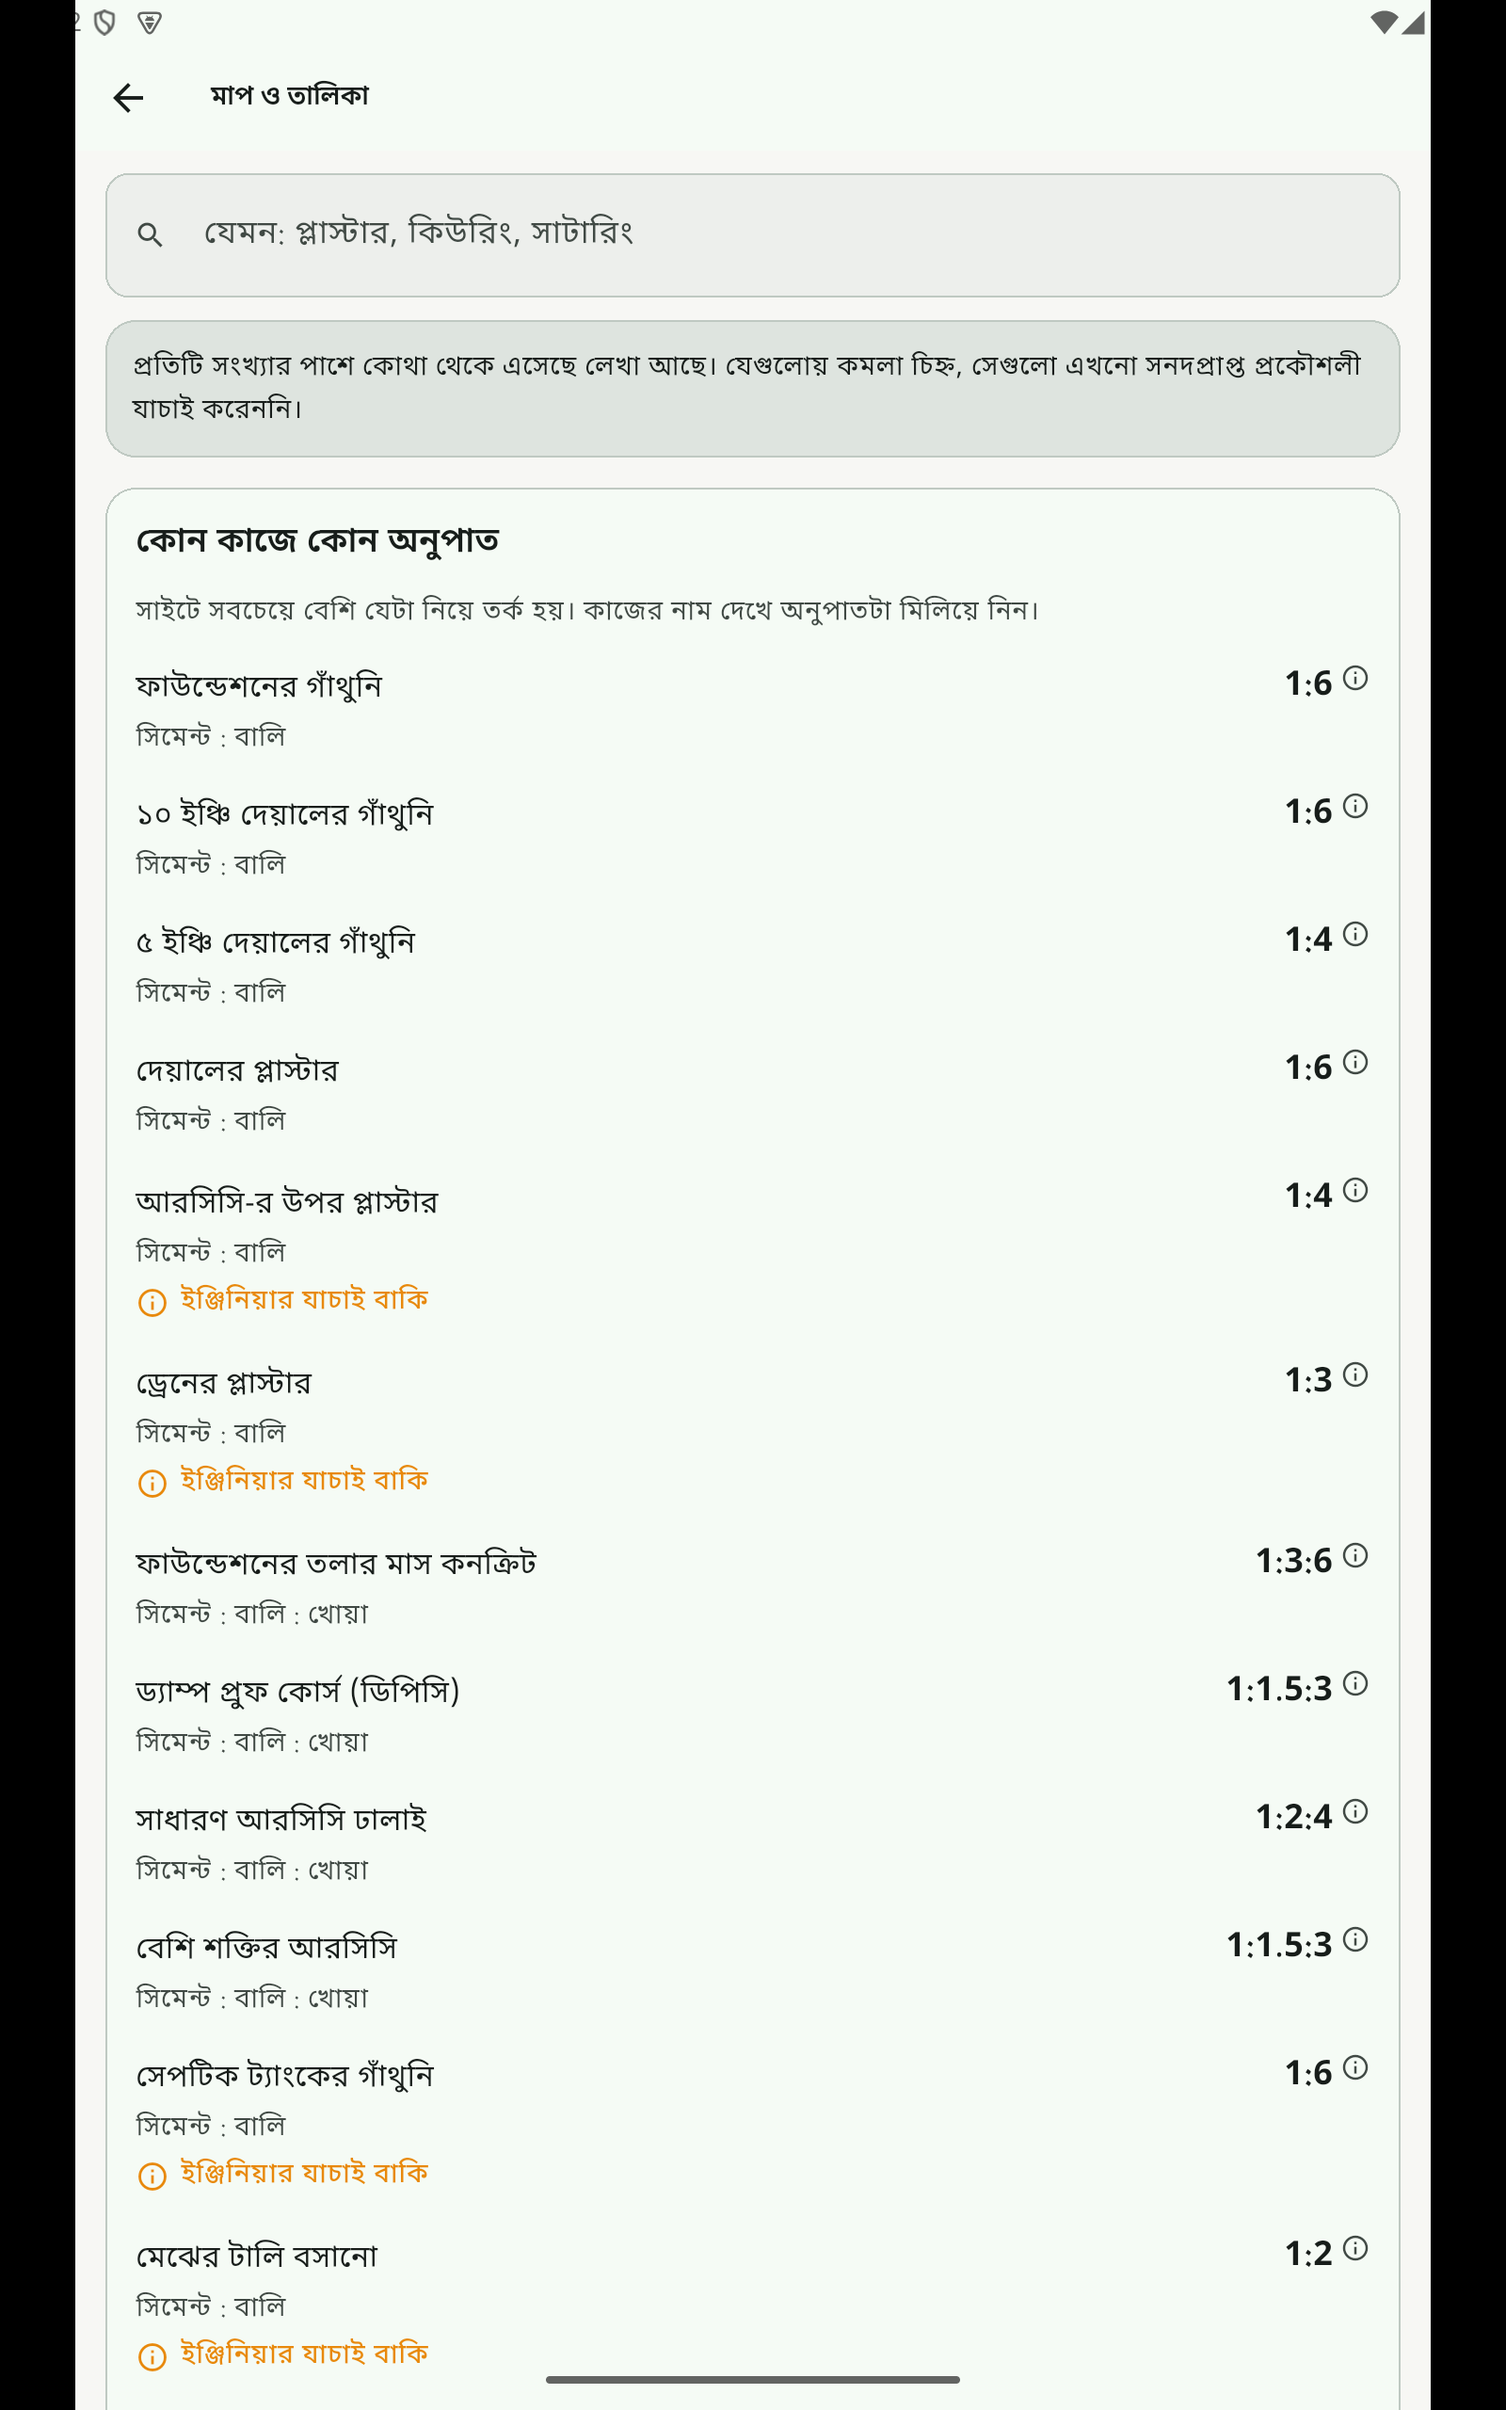
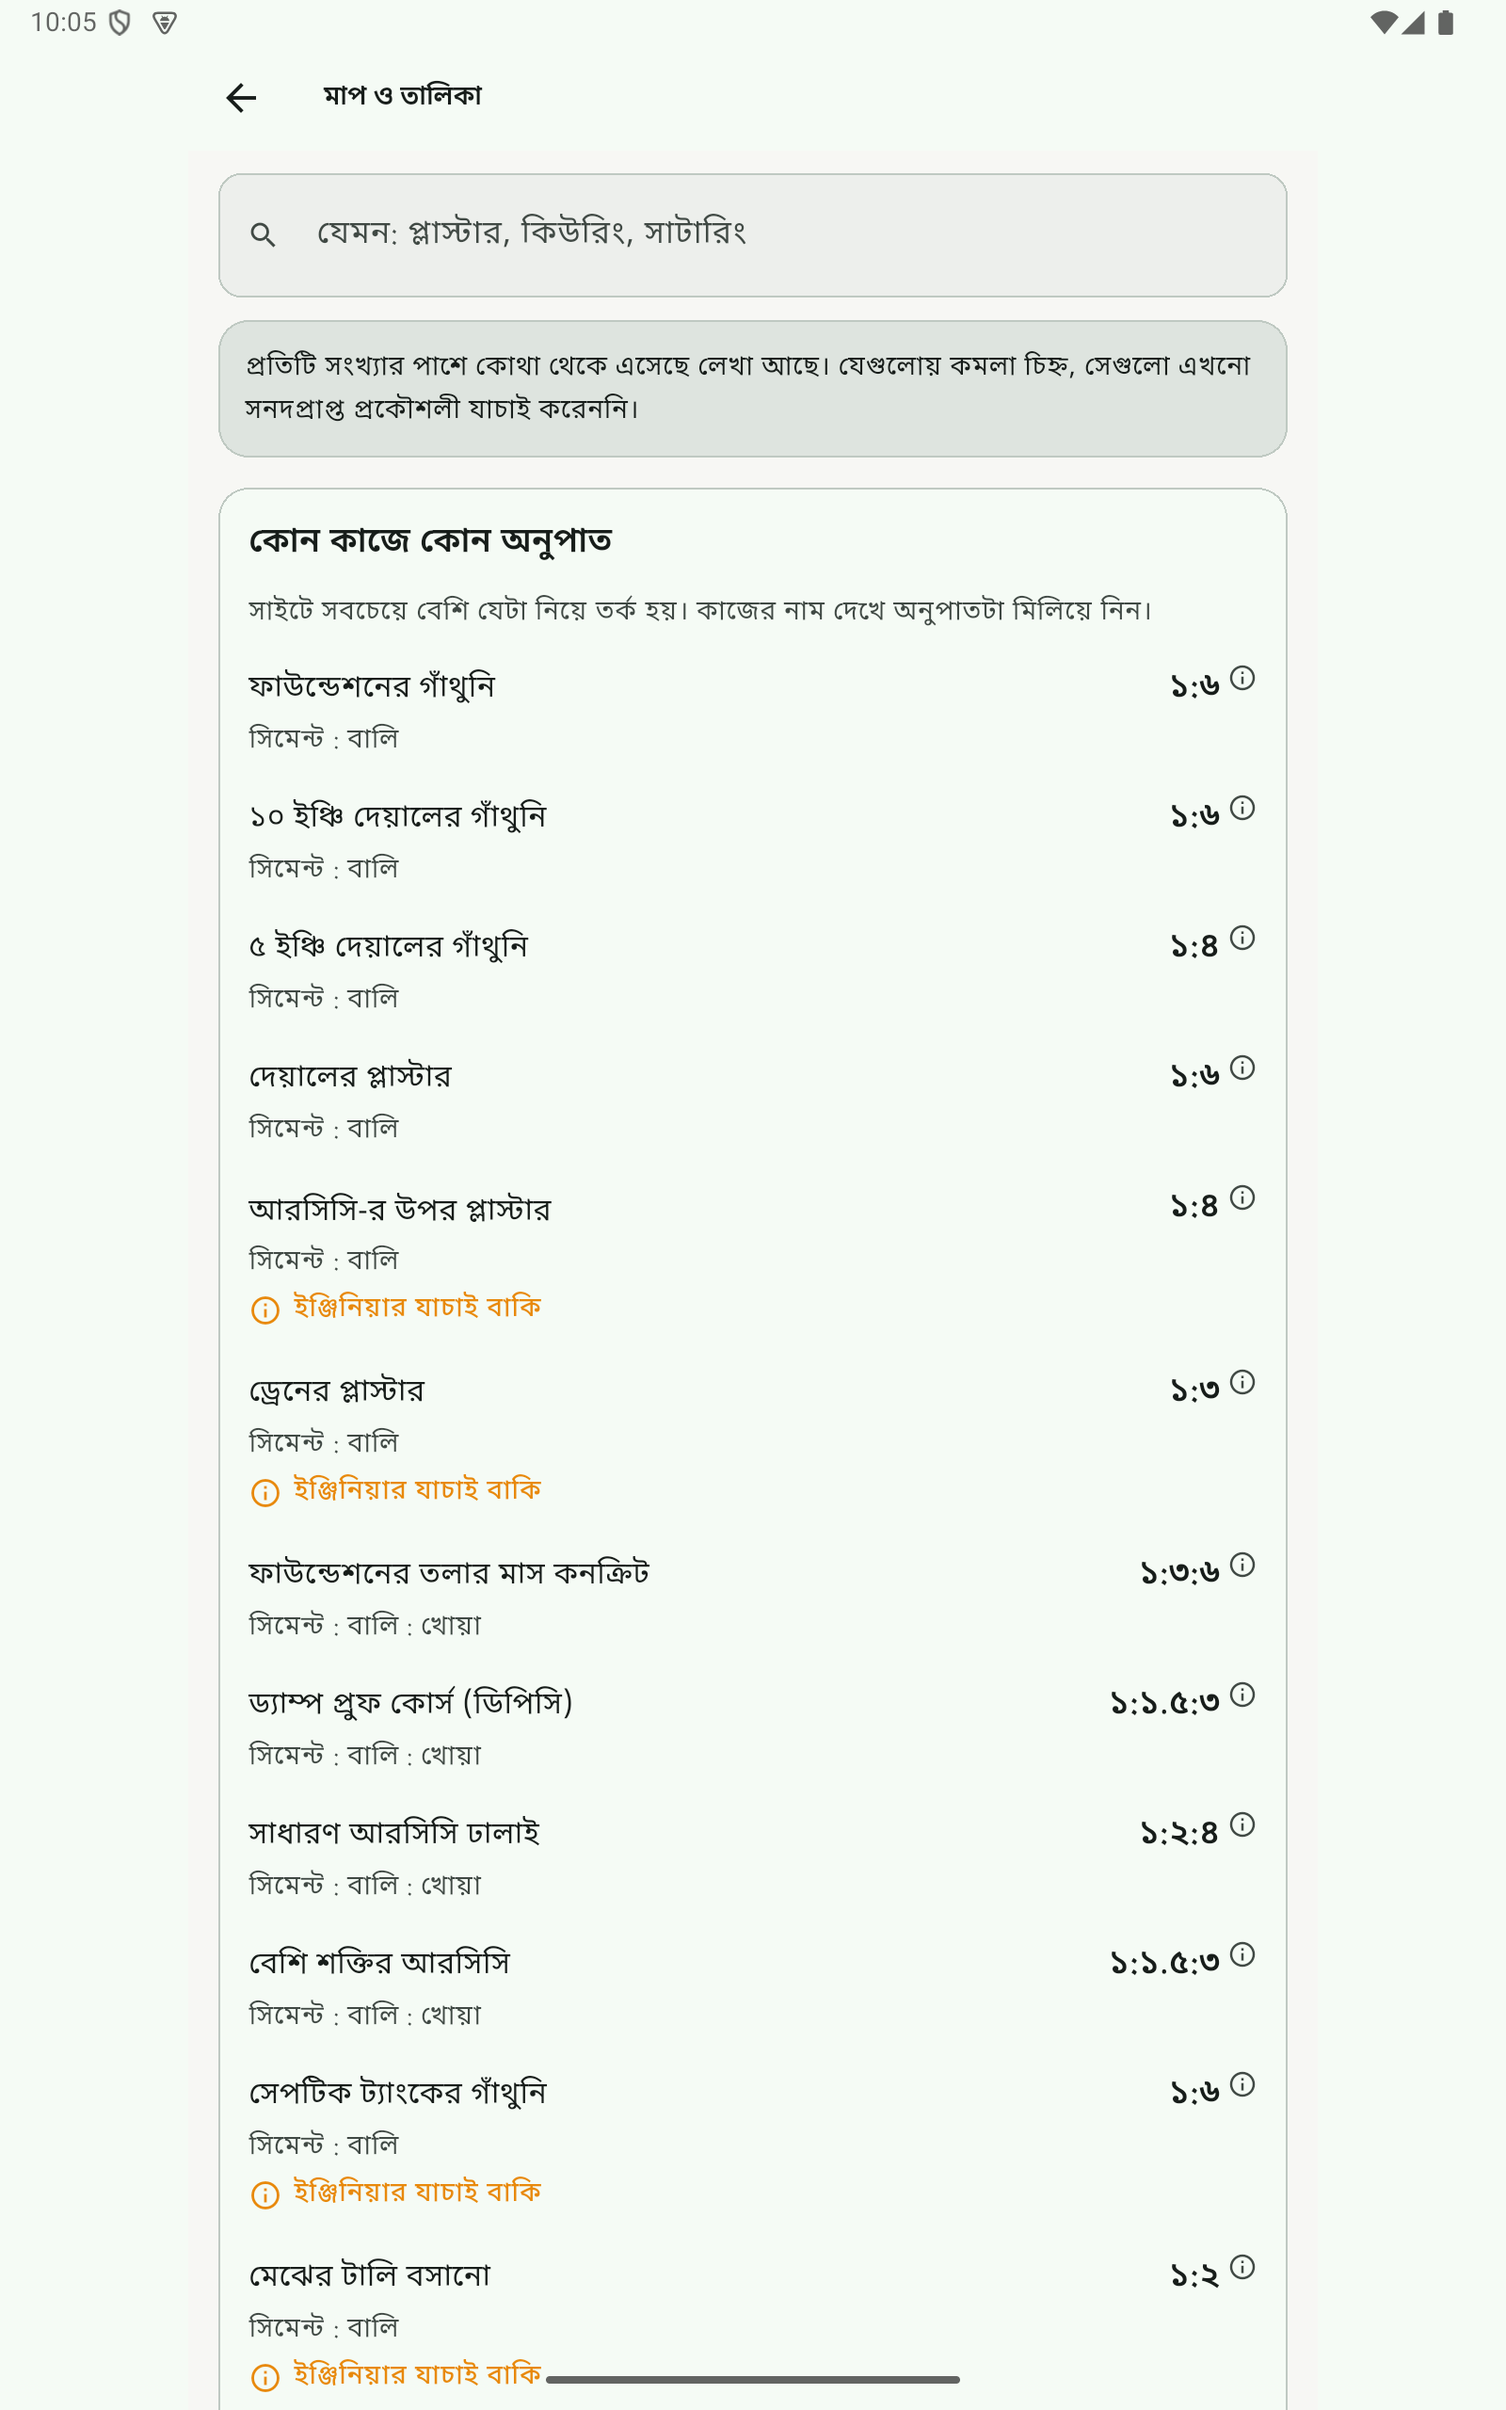
Recapture the ten-inch screenshots against the layout that actually ships
The old set was taken before the readable-width change and showed the page
running the full 1600 pixels. Those seven images had stopped describing the app:
the column is held to 600dp and centred now, with the surface colour painted
behind it rather than the black bars the first attempt left.

Built fresh from the release APK, so they also carry this session's work — the
grouped calculators, the mix ratios in Bangla digits, the plot rules with their
worked answer and the caution that it is a ceiling and not an approval.

Six of the seven taps landed first time and the measuring-tools door missed
again, as it did last time: it sits where the row spacing is tightest. The note
in the README now says which y works and, more usefully, how to tell a missed
tap from a good one — file hashes are useless because the status-bar clock
changes between captures, so compare a crop of the top strip, where a pushed
screen has a back arrow and home has the title.

diff --git a/store/screenshots/README.md b/store/screenshots/README.md
@@ -35,7 +35,14 @@ Screens are laid out in a single scrolling column, so the capture is just
 - Tap coordinates are per-device and have to be re-derived from a home-screen
   capture each time; a 10-inch emulator is slow enough that a tap five seconds
   after launch can land before the list has drawn, which silently leaves you
-  with a second copy of the home screen. Check every shot.
+  with a second copy of the home screen. Check every shot — comparing file
+  hashes does not work, because the clock in the status bar makes two captures
+  of the same screen differ. Compare a crop of the top strip against the home
+  capture instead: a pushed screen has a back arrow where home has the title,
+  and the mean pixel difference over that band separates them cleanly.
+- The measuring-tools door is the one that misses. It sits mid-list where the
+  row spacing is tightest, and 1063 is the y that lands on a 1600 x 2560
+  tablet.
 - `adb shell am start -S` force-restarts the activity, so each capture begins
   from a known home screen rather than wherever the last one left off. Backing
   out with the back key walks off the app and into the launcher.
